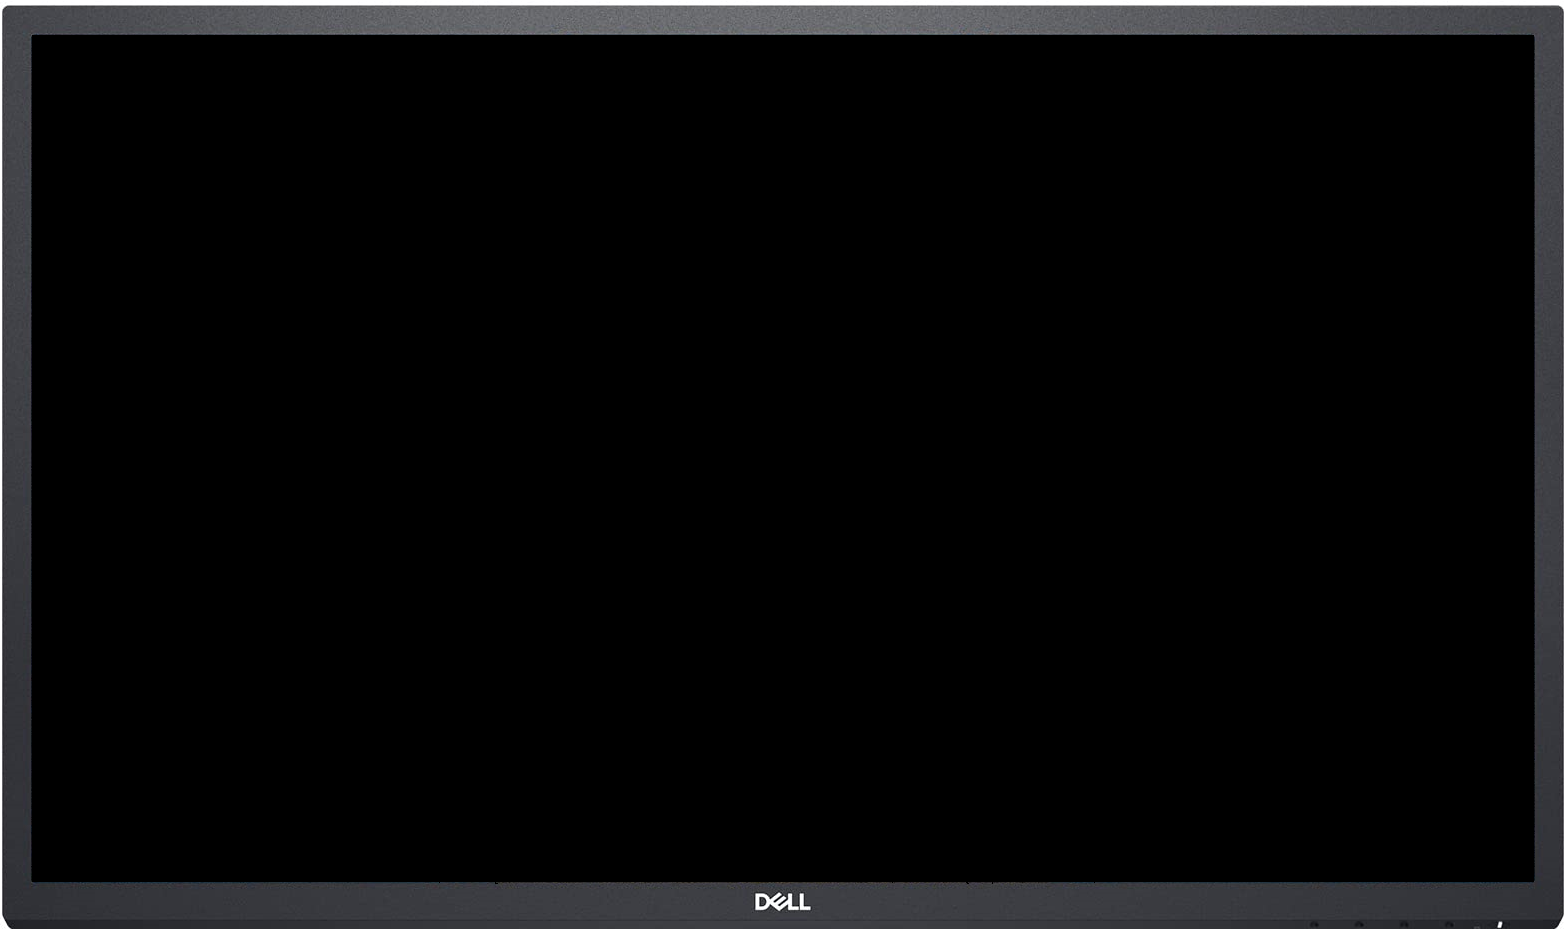
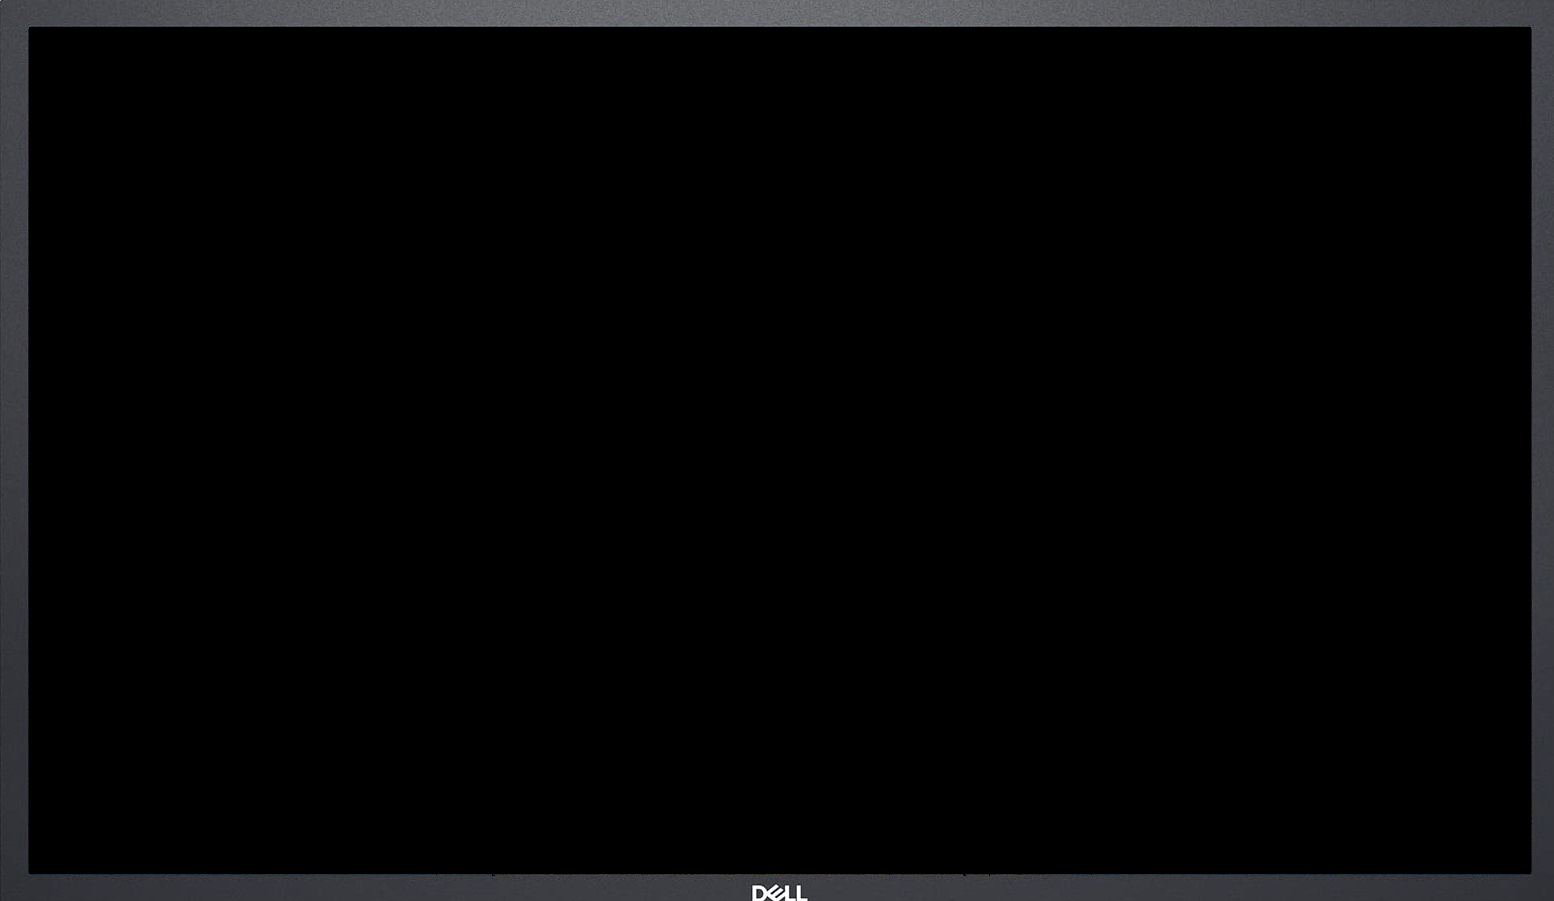
Responsive fix

Changed region(s): [[0.0, 0.0, 1.0, 1.0], [0.9884, 0.9945, 1.0, 1.0]]

diff --git a/server/admin/admin.html b/server/admin/admin.html
@@ -22,7 +22,7 @@
             height: 100%;
             background: url(monitor.png) no-repeat;
             background-position: center;
-            background-size: 100%;
+            background-size: 100% 100%;
             display: none;
             z-index: 1;
         }
@@ -42,7 +42,7 @@
         }
         .desktop {
             position: absolute;
-            left: 2.1rem;
+            left: 2%;
             width: 96.2%;
             height: 97%;
             background: url(desktopbg.jpg);
